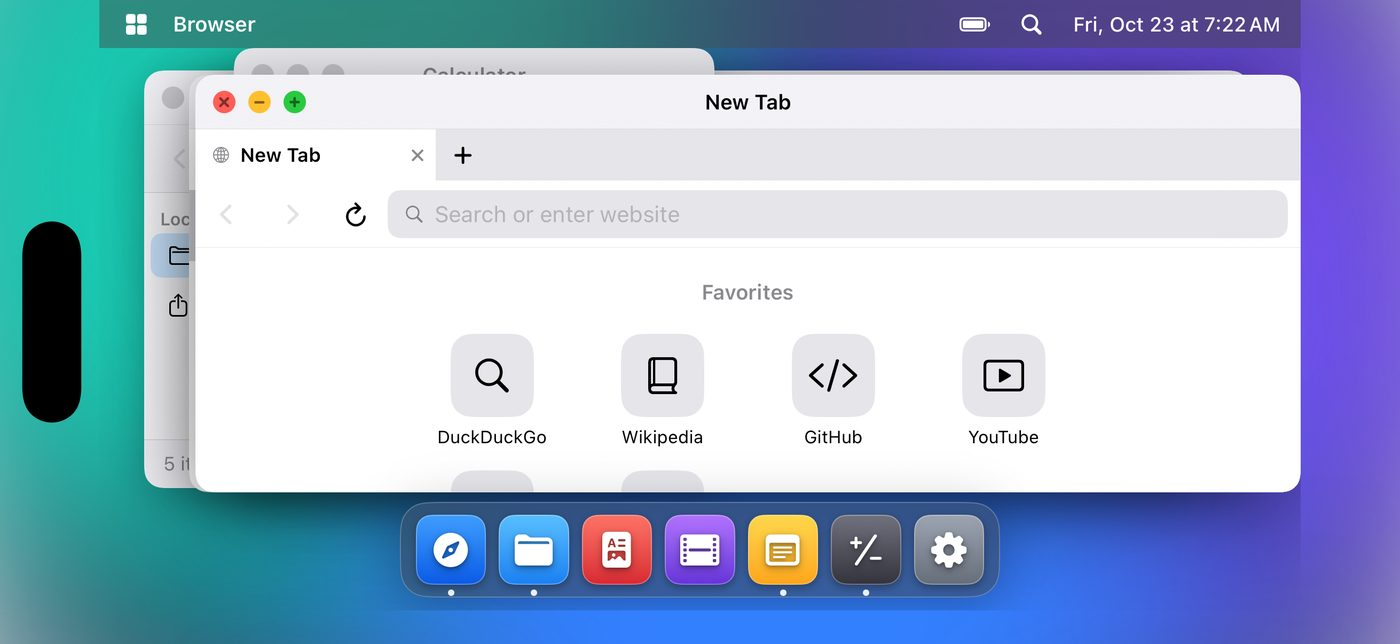
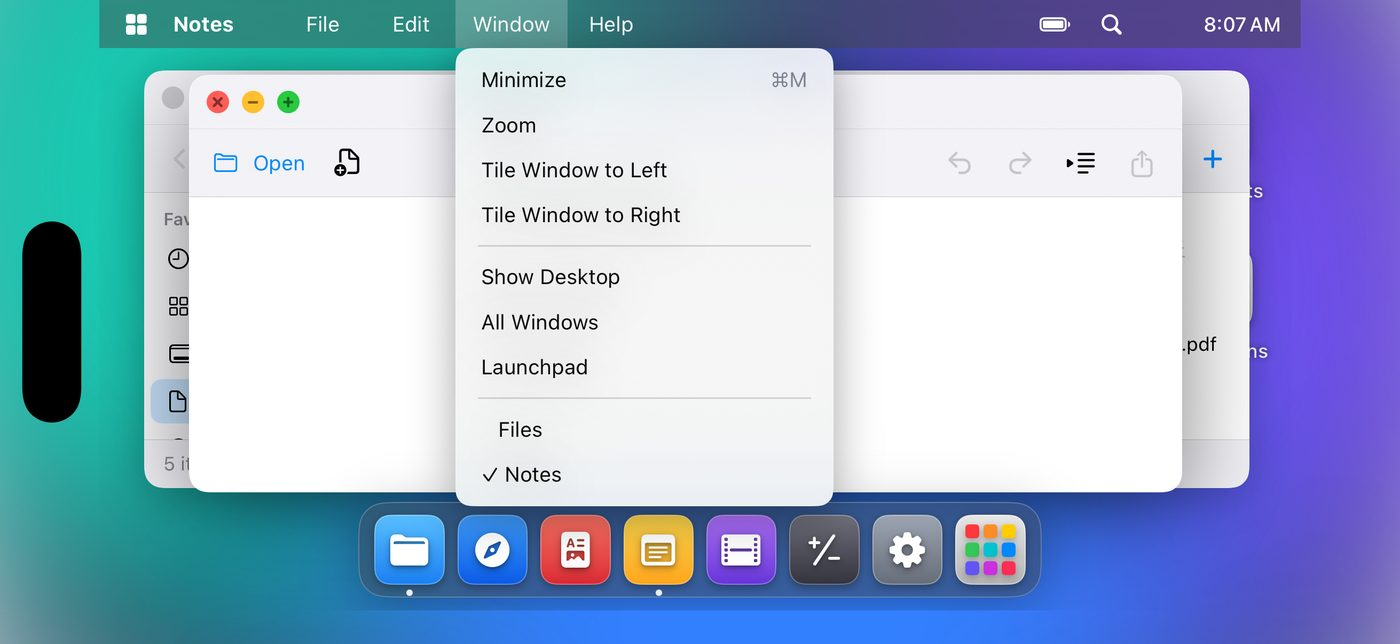
Update README and screenshots for the new shell and apps
Claude-Session: https://claude.ai/code/session_01B4SxksceicQY4SSnDacRss

diff --git a/README.md b/README.md
@@ -18,7 +18,7 @@ DeskFree is an **independent project**. It is inspired by the idea behind "iPhon
   </tr>
   <tr>
     <td><img src="docs/screenshots/notes.jpg" alt="Notes"></td>
-    <td><img src="docs/screenshots/settings.jpg" alt="Settings"></td>
+    <td><img src="docs/screenshots/launchpad.jpg" alt="Launchpad"></td>
   </tr>
 </table>
 
@@ -34,16 +34,16 @@ DeskFree is an **independent project**. It is inspired by the idea behind "iPhon
 
 | | |
 |---|---|
-| **Desktop shell** | Menu bar with clock/battery, frosted Dock with running indicators, wallpapers (6 built-in + your own photo) |
+| **Desktop shell** | Menu bar with real **File / Edit / Window / Help** menus, clock and battery; frosted Dock with running indicators; **Launchpad**; desktop shortcuts; **all-windows switcher**; wallpapers (6 built-in + your own photo) |
 | **Windows** | Drag by the title bar, resize from any edge or corner, minimise to the Dock, maximise (button or double-tap the title bar), click-to-focus stacking |
 | **Search** | Spotlight-style search for apps, open windows, files in *Documents*, quick maths (`12*(3+4)`), web search or a URL |
-| **Browser** | WebKit, desktop-class sites, tabs, address bar with search, progress bar, favourites page |
-| **Files** | Browse the app's *Documents* (also visible in the iOS Files app), grid/list, thumbnails, import, new folder, rename, duplicate, share, delete |
-| **PDF Studio** | PDFKit viewer with page thumbnails; highlight, underline, strikethrough, freehand pen, text, eraser, undo; save / save a copy / share |
+| **Browser** | WebKit, desktop-class sites, tabs, address bar with search, progress bar, **bookmarks** |
+| **Files** | Sidebar with Recents, Desktop, Documents, Downloads, **linked external folders** (iCloud Drive etc.) and a real **Trash**; grid/list, thumbnails, import, new folder, rename, duplicate, share |
+| **Preview** | PDFs and pictures. PDF: thumbnails, highlight, underline, strikethrough, pen, text, eraser, undo, zoom, print. Pictures: rotate, zoom, save a copy, save to Photos, share |
 | **Video Editor** | Import from Files or Photos, timeline with thumbnails, trim handles, speed (0.5–2×), filters, mute, 720p/1080p/best export to *Documents/Exports* |
-| **Notes** | Multiple notes, search, autosave |
+| **Notes** | Plain-text editor for `.txt` / `.md` files in Documents: autosave, undo/redo, indent, export |
 | **Calculator** | Expressions with parentheses, powers, percent, √ and π |
-| **Big screen mode** | Plug in a display over USB-C / HDMI / AirPlay: the desktop appears on it at up to 2560 × 1440 and the iPhone becomes a trackpad (move, tap-to-click, hold-and-move to drag, two-finger scroll) with a keyboard and quick actions |
+| **Big screen mode** | Plug in a display over USB-C / HDMI / AirPlay: the desktop appears on it at up to 2560 × 1440 and the iPhone becomes a trackpad (move, tap-to-click, hold-and-move to drag, two-finger scroll) with quick actions (Spotlight, Address, Windows, Preview); the keyboard appears when you click a text field. Pinch zooms, three fingers up shows all windows |
 | **Portrait trackpad layout** | In portrait the phone shows a live preview of the desktop above a trackpad, so you can explore the workspace without any display |
 
 Landscape without a display gives you the same desktop directly under your fingers.
@@ -79,7 +79,7 @@ Every push to `main` is built by GitHub Actions. The workflow uploads **`DeskFre
 - **Move / resize:** drag the title bar; drag any edge or corner.
 - **Maximise:** green button, or double-tap the title bar.
 - **Search:** magnifier in the menu bar.
-- **Files:** put files in *DeskFree* via the iOS Files app, or use *Import Files…*. Double-tap a PDF or video to open it in the right tool.
+- **Files:** put files in *DeskFree* via the iOS Files app, or use *Import Files…*. Double-tap a PDF, picture, text file or video to open it in the right tool.
 - **Big screen:** connect a display. The desktop moves to it and the phone shows the trackpad. **Touch** switches back to driving the desktop with your fingers; **Keyboard** opens the iOS keyboard and sends your typing to the search box, the browser address bar, Notes or the Calculator; **Desktop** minimises/restores every window.
 
 ## Continuous integration
@@ -94,7 +94,7 @@ project.yml                 XcodeGen spec (the .xcodeproj is generated, not comm
 Sources/DeskFree/
   Core/    window manager, Dock geometry, pointer hit-testing, search, settings, session
   Shell/   menu bar, Dock, window chrome, Spotlight, trackpad, root views
-  Apps/    Browser, Files, PDF, Video, Notes, Calculator, Settings
+  Apps/    Browser, Files, Preview, Video, Notes, Calculator, Settings
   App/     entry point and the external-display scene
 Tests/DeskFreeTests/        unit tests for the logic above
 .github/workflows/          build + test on a macOS runner, unsigned IPA artifact, screenshots
